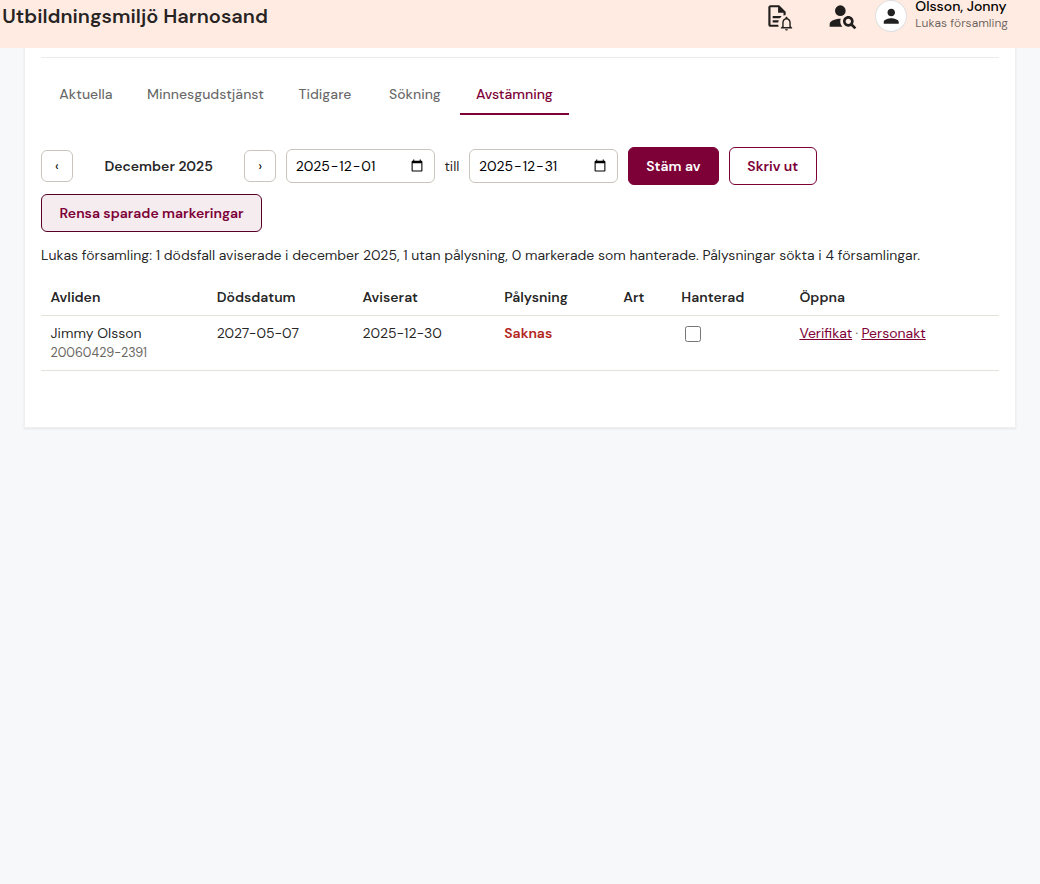
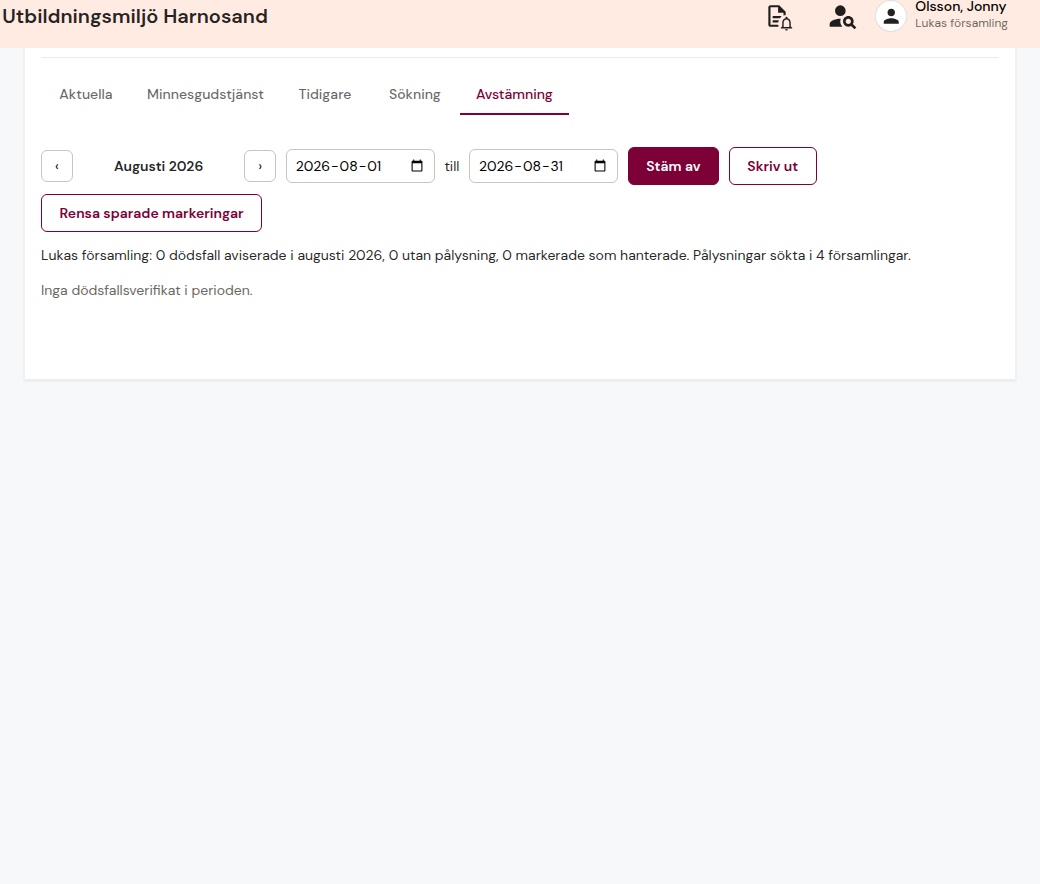
Ge avstämningsfliken samma inre marginal som Kboks egna flikar
Innehållet börjar i linje med flikraden, mätt vid varje visning i stället
för ett fast tal, eftersom kortet kan vara byggt olika i olika miljöer.

Claude-Session: https://claude.ai/code/session_016wKJTBLN1626mGn4K9njpR

diff --git a/svk-kbok-enhancements.user.js b/svk-kbok-enhancements.user.js
@@ -2894,7 +2894,7 @@
         stil.id = 'svk-kbok-avstamningsstil';
         stil.textContent = `
             .${DOLJ_KLASS} { display: none !important; }
-            #${AVSTAMNING_ID} { padding: 1rem 0; font-size: 14px; }
+            #${AVSTAMNING_ID} { padding: 1rem 0 1.5rem; font-size: 14px; }
             #${AVSTAMNING_ID} .svk-kbok-rad { display: flex; flex-wrap: wrap; gap: .6rem;
                 align-items: center; margin-bottom: .8rem; }
             #${AVSTAMNING_ID} .svk-kbok-manad { font-weight: 600; min-width: 9.5rem;
@@ -3294,6 +3294,16 @@
         flik.setAttribute('aria-selected', String(vald));
         flik.style.boxShadow = vald ? 'inset 0 -2px 0 currentColor' : '';
         panel.hidden = !vald;
+        if (vald) {
+            // Samma inre luft som appens egna flikar: innehållet börjar i
+            // linje med flikraden, hur kortet än är byggt i den här miljön.
+            panel.style.paddingLeft = '0px';
+            panel.style.paddingRight = '0px';
+            const luft = Math.max(0, Math.round(
+                tablist.getBoundingClientRect().left - panel.getBoundingClientRect().left));
+            panel.style.paddingLeft = `${luft}px`;
+            panel.style.paddingRight = `${luft}px`;
+        }
         appFlikar.forEach((t) => {
             if (vald) {
                 t.classList.remove('Mui-selected');
